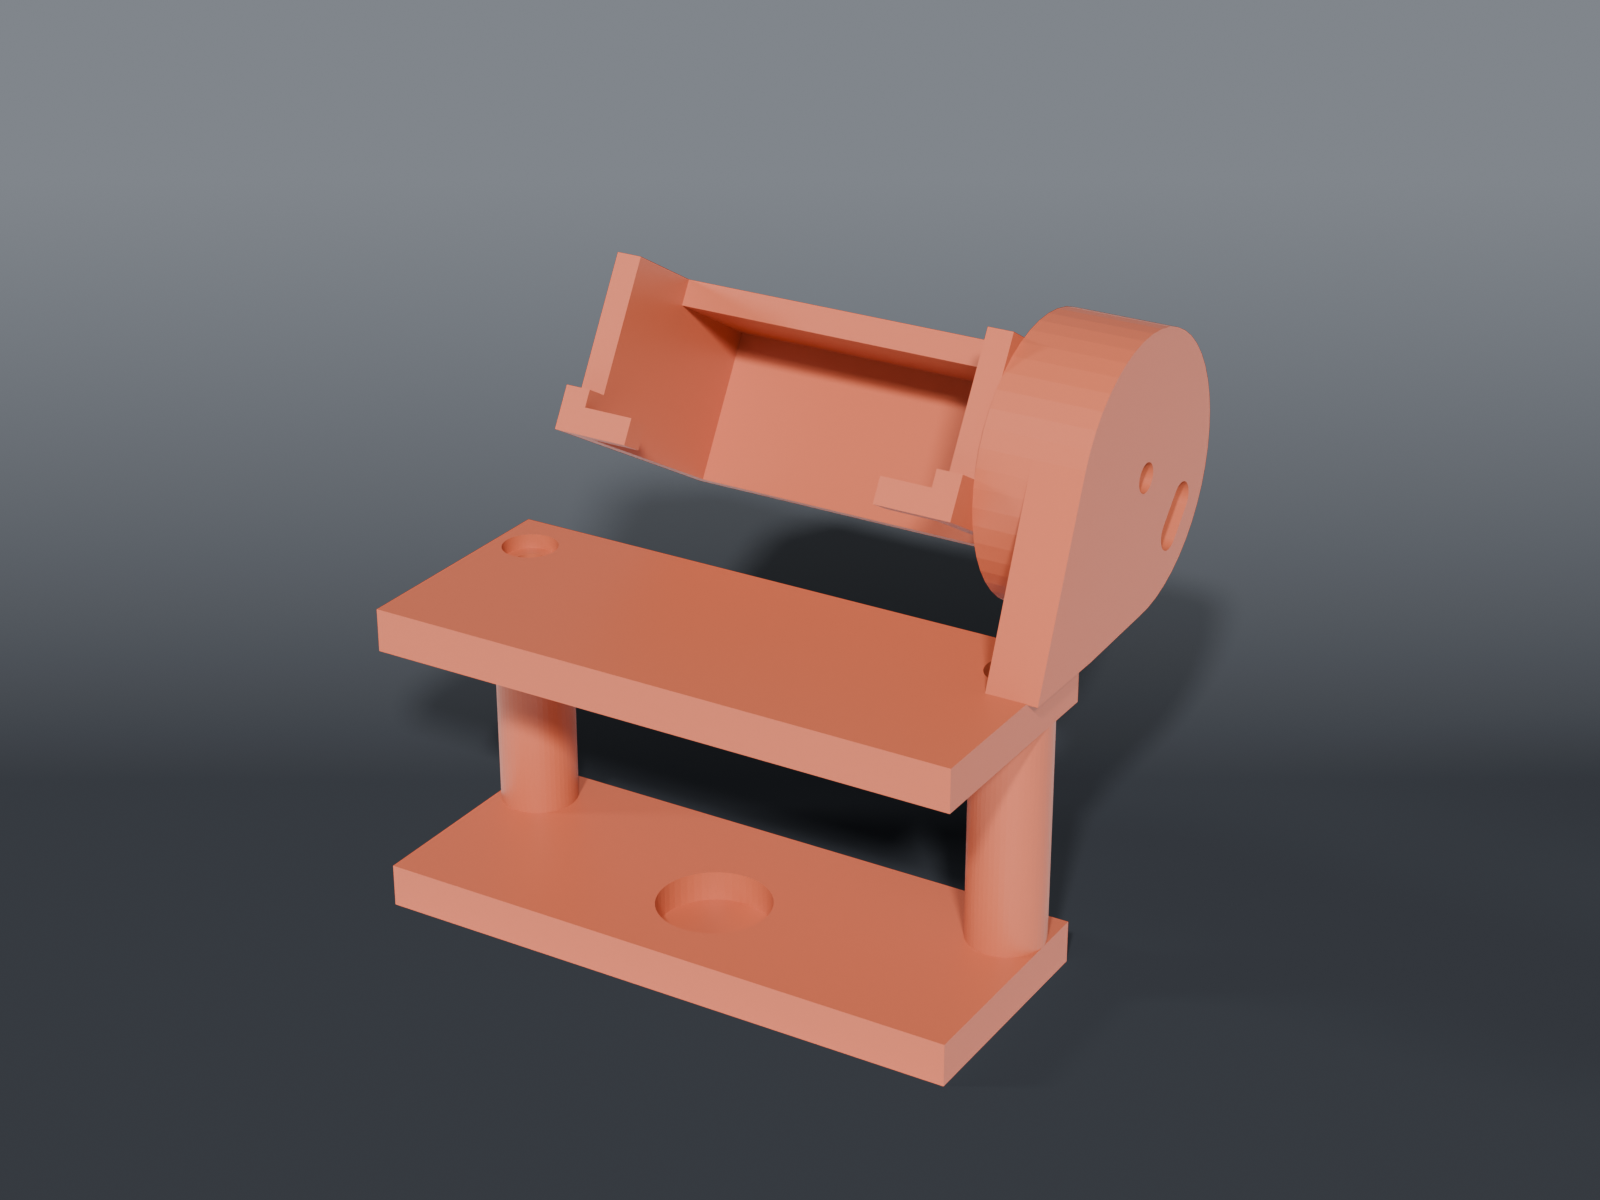
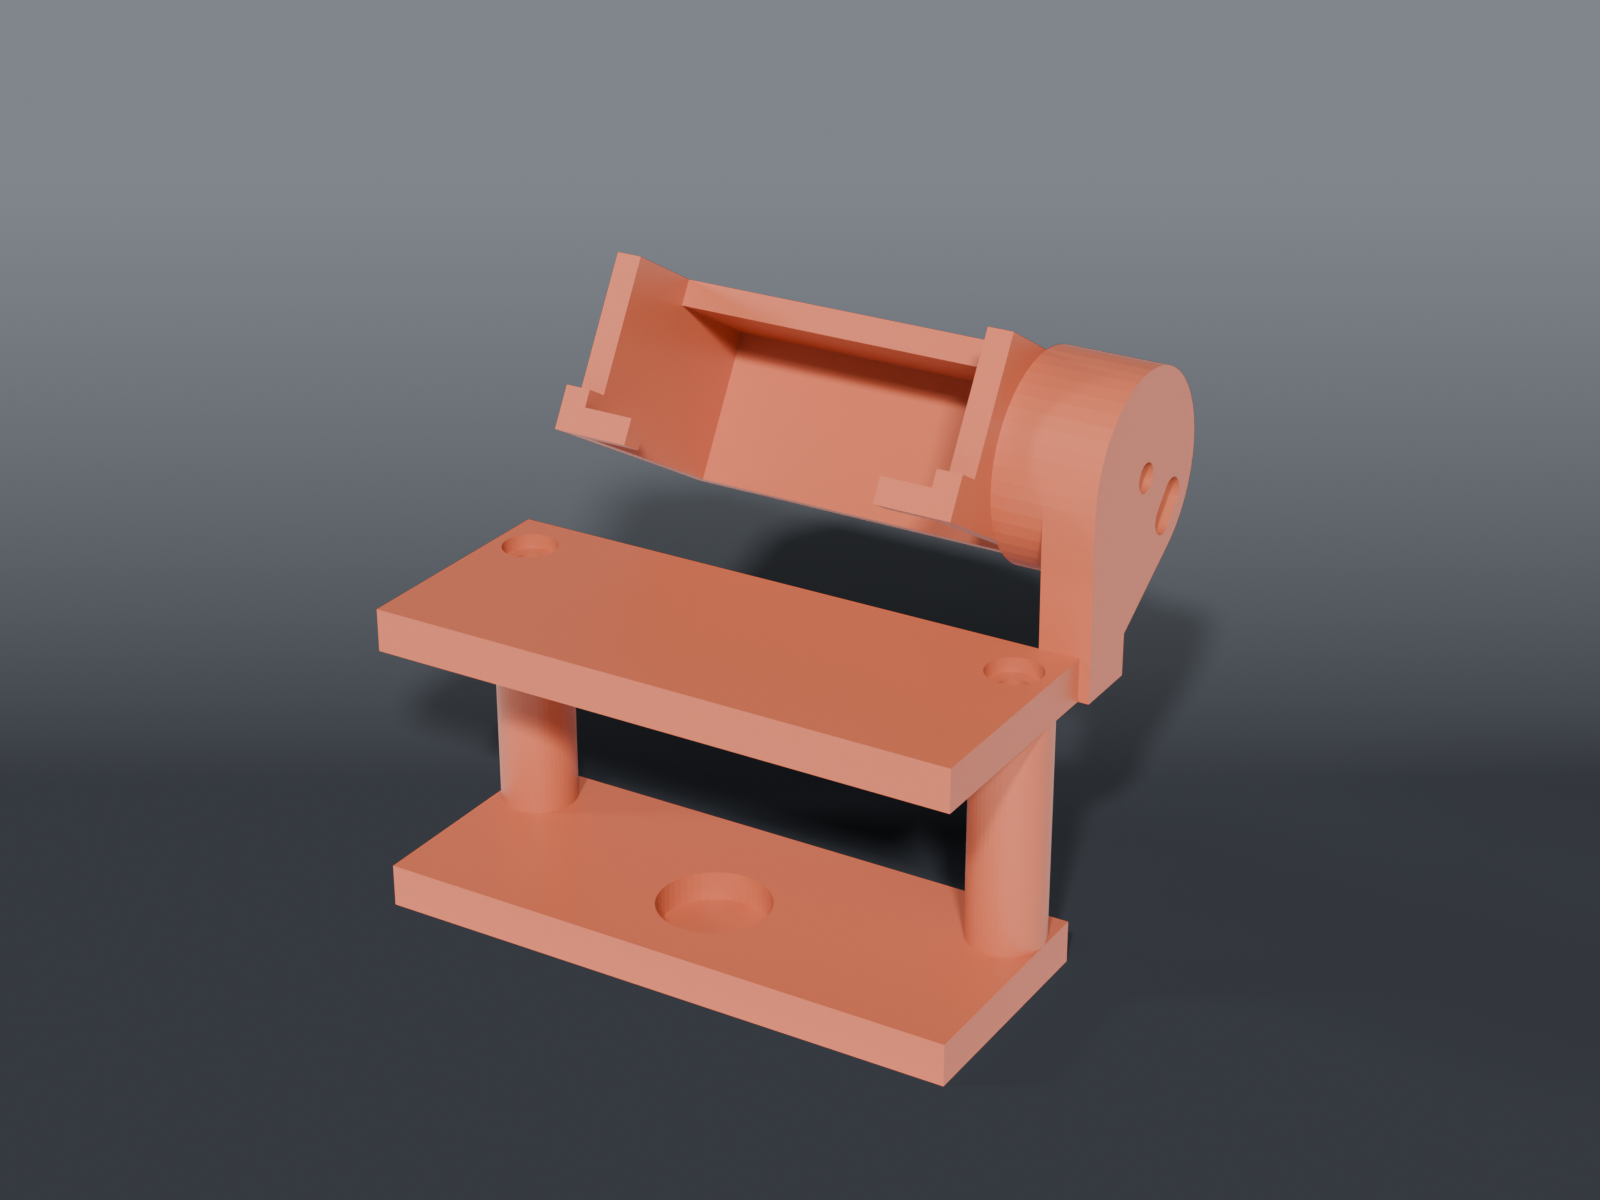
fix(thermal-cam-mount): stop the arm burying a clamp screw

Changed region(s): [[0.625, 0.2467, 0.7812, 0.4933], [0.5938, 0.3392, 0.7188, 0.5858]]

diff --git a/thermal-cam-mount/README.md b/thermal-cam-mount/README.md
@@ -21,8 +21,8 @@ weak point.
 | File | What | Size |
 |---|---|---|
 | `mount_bottom.scad` | bottom plate + screw bosses | 70.05 × 28.0 × 31.7 mm |
-| `mount_top.scad` | top plate + arm + joint pad | 71.33 × 55.7 × 37.4 mm |
-| `mount_cradle.scad` | the cradle + its joint pad | 34.0 × 32.0 × 54.6 mm |
+| `mount_top.scad` | top plate + arm + joint pad | 71.33 × 51.7 × 33.4 mm |
+| `mount_cradle.scad` | the cradle + its joint pad | 54.6 × 24.0 × 33.0 mm |
 
 Two M3 screws into heat-set inserts draw the plates together, and two more join the cradle to the
 arm — four M3s and four inserts in total. Shared dimensions live in `thermal_cam_mount_common.scad`.
@@ -154,28 +154,28 @@ objective's spot stays well in frame across the whole range.
 | Layer height | 0.2 mm |
 | Walls | 4 perimeters |
 | Infill | 40 % — this is a clamp |
-| Supports | **`mount_cradle` only.** See below |
+| Supports | **None, on any part.** See below |
 
-### Supports — mount_cradle only
+### Supports — none
 
 Measured off the exported meshes in each part's own print orientation:
 
 | Part | Unsupported overhang steeper than 45° | |
 |---|---|---|
 | `mount_bottom` | **0.0%** | none |
-| `mount_top` | **2.8%** | none |
-| `mount_cradle` | **7.5%** | light supports |
+| `mount_top` | **1.8%** | none |
+| `mount_cradle` | **2.7%** | none |
 
-**Splitting the cradle out is what killed the support problem.** In v1.0.1 the cradle was fused to
-the top plate at 60°, which put two ~470 mm² flat-down faces in mid-air — `mount_top` measured
-14.3%. As its own part it prints in its own orientation and `mount_top` drops to 2.8%.
+**Splitting the cradle out is what killed the support problem.** In v1.0.1 it was fused to the top
+plate at 60°, putting two ~470 mm² flat-down faces in mid-air — `mount_top` measured 14.3%. As its
+own part each piece prints in its own orientation.
 
-`mount_cradle` prints **on its side, pad down**. That's both the cheapest orientation (7.5% against
-16.2% standing up) and the right one — the pad is the joint's mating face, so printing it against
-the bed makes it flat.
+`mount_cradle` prints **upright, as exported**. That only became the right answer once `PAD_R` came
+down from 16 to 12 — at 16 the joint disc was itself the overhang, and lying it on its side was
+better (7.5% against 16.2%). At 12 upright wins outright: 2.7% against 7.4% on its side.
 
-This README said "Supports: none" for both parts until 2026-08-27, and a print was started on that
-basis and killed.
+This README said "Supports: none" for both parts until 2026-08-27 when it wasn't true, and a print
+was started on that basis and killed. It is true now, and the numbers above are measured.
 
 **Set supports per-object.** If both parts share a plate, a global support setting grows them
 under `mount_bottom` for nothing.
